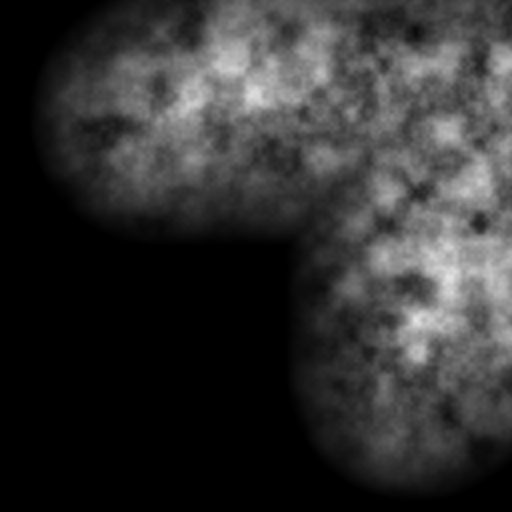
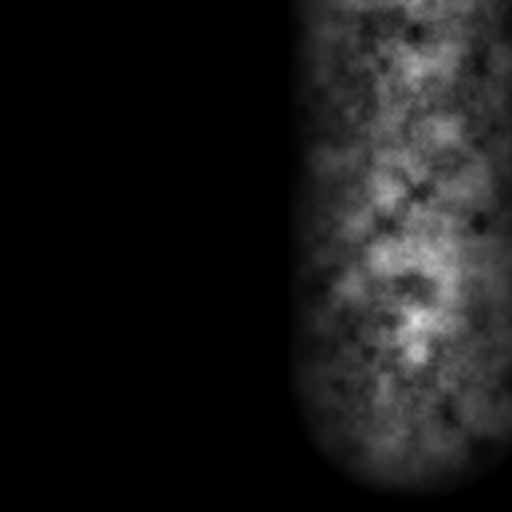
Fix bug where thin strip of pixels would appear even when not moving along that axis
for damage and age vector modifier

diff --git a/Assets/Scripts/Functions/DamageAndAge.cs b/Assets/Scripts/Functions/DamageAndAge.cs
@@ -57,38 +57,45 @@ public class DamageAndAge : MonoBehaviour
         var largest = largestSmallest.Item1;
         var smallest = largestSmallest.Item2;
 
-        Vector2 ranges = new Vector2(Mathf.Abs(largest.x - smallest.x), Mathf.Abs(largest.y - smallest.y));
+        Vector2 ranges = new Vector2(Mathf.FloorToInt(Mathf.Abs(largest.x - smallest.x)), Mathf.FloorToInt(Mathf.Abs(largest.y - smallest.y)));
         
         Texture2D newDirTex = CreateSingleColorTexture2D(width, height, TextureFormat.Alpha8, false, new Color(0,0,0,0));
         Vector2 currentPixel = new Vector2 (Mathf.FloorToInt(smallest.x),  Mathf.FloorToInt(startXY.y));
         // Fill along X
-        for (int y = 0; y < ranges.y; y++)
-        {   
-            for (int x = 0; x < ranges.x; x++)
-            {   
-                if (currentPixel.x >= width) continue;
-                if (currentPixel.y >= height) continue;
-                newDirTex.SetPixel(Mathf.FloorToInt(currentPixel.x), Mathf.FloorToInt(currentPixel.y), Color.white);
-                currentPixel.x += 1;
-            }
-            currentPixel.y += angle.y;
-            currentPixel.x = smallest.x + angle.x * y;
-        }
-        
-        currentPixel = new Vector2 (Mathf.FloorToInt(startXY.x),  Mathf.FloorToInt(smallest.y));
-        // Fill along Y
-        for (int x = 0; x < ranges.x; x++)
-        {   
+        if (Math.Abs(angle.y) > 0)
+        {
             for (int y = 0; y < ranges.y; y++)
             {   
-                if (currentPixel.x >= width) continue;
-                if (currentPixel.y >= height) continue;
-                newDirTex.SetPixel(Mathf.FloorToInt(currentPixel.x), Mathf.FloorToInt(currentPixel.y), Color.white);
-                currentPixel.y += 1;
+                for (int x = 0; x < ranges.x; x++)
+                {   
+                    if (currentPixel.x >= width) continue;
+                    if (currentPixel.y >= height) continue;
+                    newDirTex.SetPixel(Mathf.FloorToInt(currentPixel.x), Mathf.FloorToInt(currentPixel.y), Color.white);
+                    currentPixel.x += 1;
+                }
+                currentPixel.y += angle.y;
+                currentPixel.x = smallest.x + angle.x * y;
             }
-            currentPixel.x += angle.x;
-            currentPixel.y = smallest.y + angle.y * x;
         }
+
+        currentPixel = new Vector2 (Mathf.FloorToInt(startXY.x),  Mathf.FloorToInt(smallest.y));
+        // Fill along Y
+        if (Math.Abs(angle.x) > 0)
+        {
+            for (int x = 0; x < ranges.x; x++)
+            {   
+                for (int y = 0; y < ranges.y; y++)
+                {   
+                    if (currentPixel.x >= width) continue;
+                    if (currentPixel.y >= height) continue;
+                    newDirTex.SetPixel(Mathf.FloorToInt(currentPixel.x), Mathf.FloorToInt(currentPixel.y), Color.white);
+                    currentPixel.y += 1;
+                }
+                currentPixel.x += angle.x;
+                currentPixel.y = smallest.y + angle.y * x;
+            }
+        }
+        
         
         Debug.Log("drawing texture now");
         newDirTex.Apply();
@@ -157,7 +164,8 @@ public class DamageAndAge : MonoBehaviour
     {
         // Find out what kind of texture we working with? Like, rust or impact or smth? 
         var dropdownOpt = damageAgeTypeMats[damageAgeType.value];
-        selected.GetComponent<MeshRenderer>().material = dropdownOpt;
+        textureMaskMat.SetTexture("TextureToApply", dropdownOpt.mainTexture);
+        selected.GetComponent<MeshRenderer>().material = textureMaskMat;
     }
 
     private Texture2D RandomNoise(Texture2D tex)
